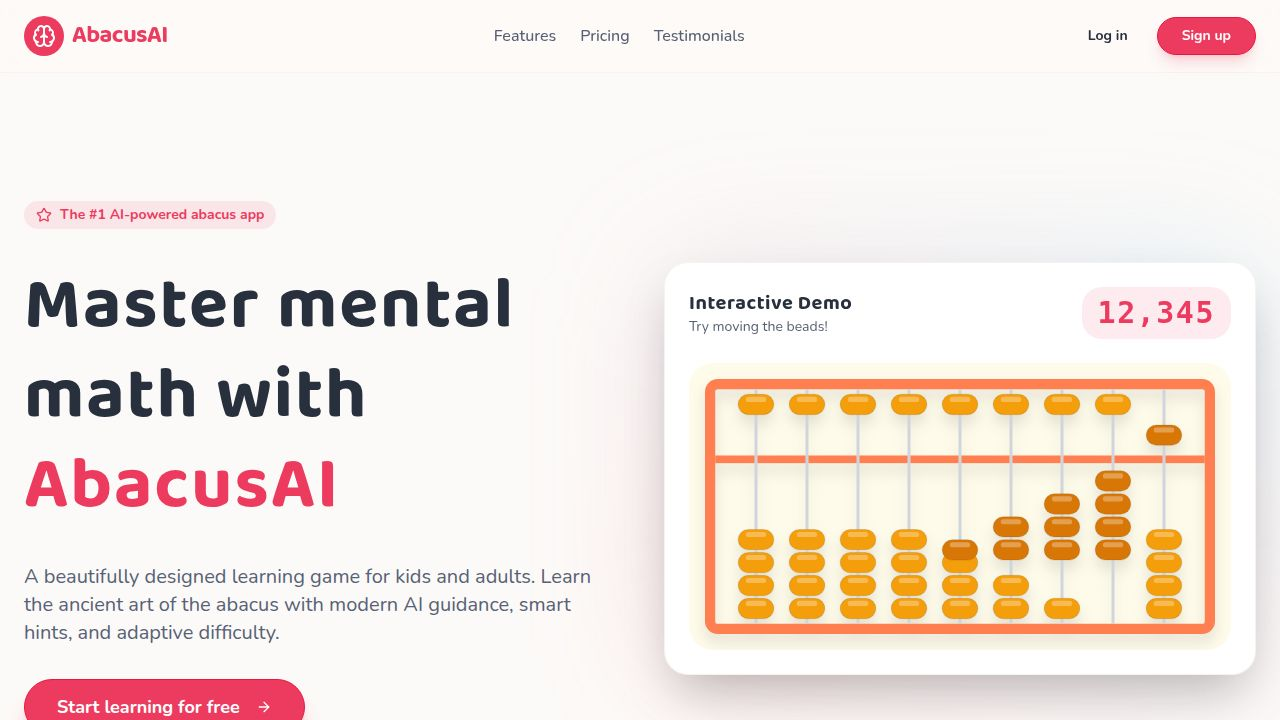
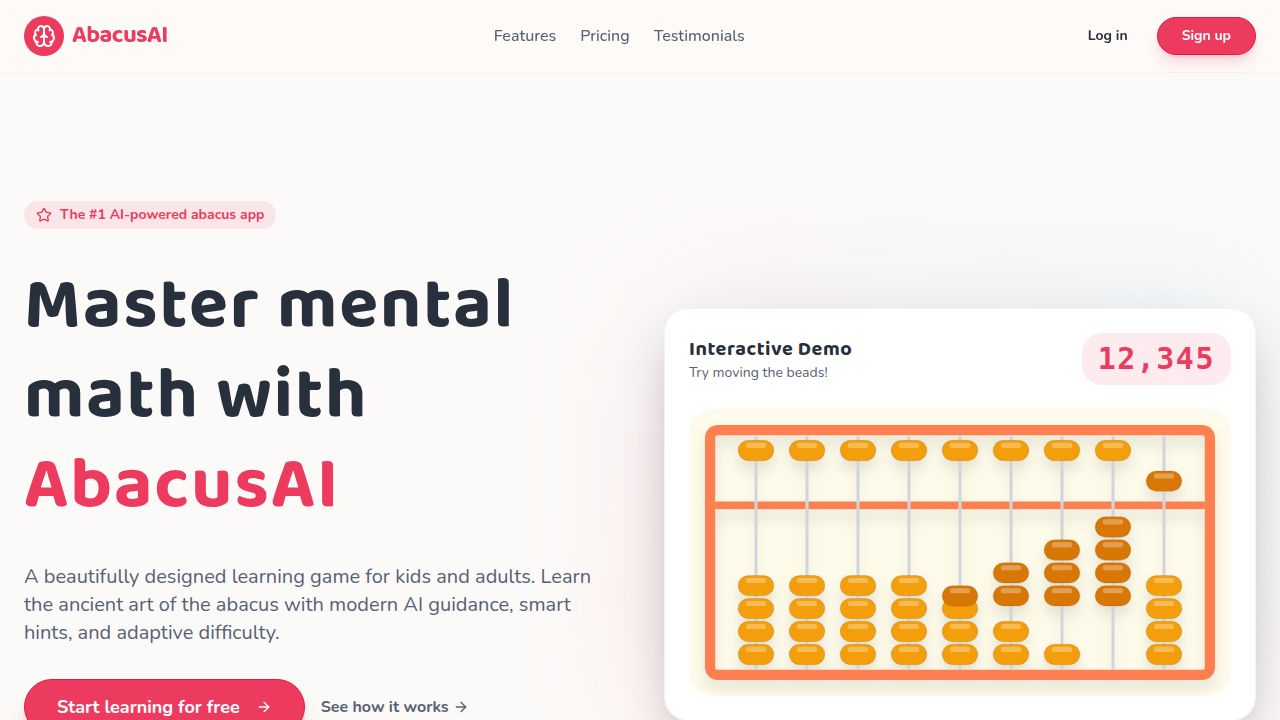
Fix interactive demo to correctly register bead clicks
Adjusted SVG bead animations to use group transforms, ensuring click hitboxes synchronize with visual bead positions in the interactive demo.

Replit-Commit-Author: Agent
Replit-Commit-Session-Id: 1104078b-a329-49b3-b7a9-6bdb38bd3040
Replit-Commit-Checkpoint-Type: full_checkpoint
Replit-Commit-Event-Id: 55f1903f-60ba-45d2-b8f9-304281dbca62
Replit-Commit-Screenshot-Url: https://storage.googleapis.com/screenshot-production-us-central1/dd4d6749-1a95-4fc3-aa3a-3844bd2d0a03/1104078b-a329-49b3-b7a9-6bdb38bd3040/ccBczjX
Replit-Helium-Checkpoint-Created: true

Changed region(s): [[0.5, 0.3972, 1.0, 1.0], [0.25, 0.9778, 0.375, 1.0]]

diff --git a/artifacts/abacusai/src/components/AbacusBoard.tsx b/artifacts/abacusai/src/components/AbacusBoard.tsx
@@ -14,34 +14,34 @@ interface AbacusBoardProps {
 
 const THEMES = {
   kids: {
-    frame: '#ff7f50', // coral
+    frame: '#ff7f50',
     beam: '#ff7f50',
     rod: '#d1d5db',
-    bead: '#f59e0b', // amber
+    bead: '#f59e0b',
     beadActive: '#d97706',
     background: '#fffbeb'
   },
   teen: {
-    frame: '#14b8a6', // teal
+    frame: '#14b8a6',
     beam: '#14b8a6',
     rod: '#9ca3af',
-    bead: '#6366f1', // indigo
+    bead: '#6366f1',
     beadActive: '#4f46e5',
     background: '#f8fafc'
   },
   adult: {
-    frame: '#d4af37', // gold
+    frame: '#d4af37',
     beam: '#d4af37',
     rod: '#475569',
-    bead: '#64748b', // slate
+    bead: '#64748b',
     beadActive: '#334155',
     background: '#f1f5f9'
   },
   dark: {
-    frame: '#374151', // charcoal
+    frame: '#374151',
     beam: '#374151',
     rod: '#4b5563',
-    bead: '#39ff14', // neon green
+    bead: '#39ff14',
     beadActive: '#32cd32',
     background: '#111827'
   }
@@ -49,15 +49,11 @@ const THEMES = {
 
 const ROD_COUNT = 9;
 
-// Calculate bead positions based on value
 function numberToBeadState(val: number): { heaven: boolean; earth: number }[] {
   const strVal = Math.floor(Math.max(0, val)).toString().padStart(ROD_COUNT, '0');
   return strVal.split('').map(digit => {
     const d = parseInt(digit, 10);
-    return {
-      heaven: d >= 5,
-      earth: d % 5
-    };
+    return { heaven: d >= 5, earth: d % 5 };
   });
 }
 
@@ -110,20 +106,13 @@ export function AbacusBoard({
     if (mode !== 'interactive') return;
     setBeads(prev => {
       const newBeads = [...prev];
-      // beadIndex is 0 to 3 (bottom to top earth beads)
-      // if clicking bead 2, earth becomes 3 (0,1,2 are active)
-      // if earth is currently 3, and clicking bead 2, it might deactivate 3
       const currentEarth = newBeads[rodIndex].earth;
       const targetValue = beadIndex + 1;
-      
       if (currentEarth >= targetValue) {
-        // Deactivate this and above
         newBeads[rodIndex] = { ...newBeads[rodIndex], earth: beadIndex };
       } else {
-        // Activate up to this
         newBeads[rodIndex] = { ...newBeads[rodIndex], earth: targetValue };
       }
-      
       const newValue = beadStateToNumber(newBeads);
       if (onValueChange) onValueChange(newValue);
       return newBeads;
@@ -132,38 +121,49 @@ export function AbacusBoard({
 
   if (!isVisible && mode === 'flash') {
     return (
-      <div className={`w-full aspect-[2/1] rounded-2xl flex items-center justify-center ${className}`} style={{ backgroundColor: currentTheme.background, border: `8px solid ${currentTheme.frame}` }}>
+      <div
+        className={`w-full aspect-[2/1] rounded-2xl flex items-center justify-center ${className}`}
+        style={{ backgroundColor: currentTheme.background, border: `8px solid ${currentTheme.frame}` }}
+      >
         <p className="text-xl font-bold opacity-50" style={{ color: currentTheme.frame }}>Recall the number!</p>
       </div>
     );
   }
 
   return (
-    <div className={`w-full max-w-4xl mx-auto overflow-hidden p-2 sm:p-4 rounded-3xl ${className}`} style={{ backgroundColor: currentTheme.background }}>
+    <div
+      className={`w-full max-w-4xl mx-auto overflow-hidden p-2 sm:p-4 rounded-3xl ${className}`}
+      style={{ backgroundColor: currentTheme.background }}
+    >
       <svg viewBox="0 0 1000 500" className="w-full h-auto drop-shadow-xl" data-testid="abacus-board">
         {/* Frame */}
         <rect x="10" y="10" width="980" height="480" rx="15" fill="none" stroke={currentTheme.frame} strokeWidth="20" />
-        
+
         {/* Beam */}
         <rect x="20" y="150" width="960" height="15" fill={currentTheme.beam} />
 
         {/* Rods and Beads */}
         {beads.map((rod, rIndex) => {
           const x = 100 + rIndex * 100;
+
+          // Heaven bead: inactive=top (y=30), active=near beam (y=90)
+          const heavenY = rod.heaven ? 90 : 30;
+
           return (
             <g key={`rod-${rIndex}`}>
               {/* Rod line */}
               <line x1={x} y1="20" x2={x} y2="480" stroke={currentTheme.rod} strokeWidth="6" />
-              
-              {/* Heaven Bead (Value 5) */}
-              <g 
+
+              {/* Heaven Bead — use motion.g so CSS transform moves the hit-area too */}
+              <motion.g
+                animate={{ y: heavenY }}
+                transition={{ type: 'spring', stiffness: 300, damping: 25 }}
                 onClick={() => handleHeavenClick(rIndex)}
-                className={mode === 'interactive' ? 'cursor-pointer' : ''}
+                style={{ cursor: mode === 'interactive' ? 'pointer' : 'default' }}
               >
-                <motion.rect
-                  animate={{ y: rod.heaven ? 90 : 30 }}
-                  transition={{ type: "spring", stiffness: 300, damping: 25 }}
+                <rect
                   x={x - 35}
+                  y={0}
                   width="70"
                   height="40"
                   rx="20"
@@ -171,38 +171,35 @@ export function AbacusBoard({
                   stroke="rgba(0,0,0,0.1)"
                   strokeWidth="2"
                 />
-                {/* Bead highlight for 3D effect */}
-                <motion.rect
-                  animate={{ y: rod.heaven ? 95 : 35 }}
-                  transition={{ type: "spring", stiffness: 300, damping: 25 }}
+                <rect
                   x={x - 20}
+                  y={5}
                   width="40"
                   height="10"
                   rx="5"
                   fill="rgba(255,255,255,0.3)"
                 />
-              </g>
+              </motion.g>
 
-              {/* Earth Beads (Value 1 each) */}
+              {/* Earth Beads */}
               {[3, 2, 1, 0].map((bIndex) => {
                 const isActive = rod.earth > bIndex;
-                // Base Y position for inactive beads (stacked at bottom)
-                // Base Y for active beads (stacked up to beam)
+                // inactive: stacked at bottom; active: pushed up near beam
                 const inactiveY = 430 - (3 - bIndex) * 45;
-                const activeY = 180 + (3 - bIndex) * 45; // reverse order so bIndex 0 (top) is at 180
-
+                const activeY = 180 + (3 - bIndex) * 45;
                 const targetY = isActive ? activeY : inactiveY;
 
                 return (
-                  <g 
+                  <motion.g
                     key={`bead-${rIndex}-${bIndex}`}
+                    animate={{ y: targetY }}
+                    transition={{ type: 'spring', stiffness: 300, damping: 25 }}
                     onClick={() => handleEarthClick(rIndex, bIndex)}
-                    className={mode === 'interactive' ? 'cursor-pointer' : ''}
+                    style={{ cursor: mode === 'interactive' ? 'pointer' : 'default' }}
                   >
-                    <motion.rect
-                      animate={{ y: targetY }}
-                      transition={{ type: "spring", stiffness: 300, damping: 25 }}
+                    <rect
                       x={x - 35}
+                      y={0}
                       width="70"
                       height="40"
                       rx="20"
@@ -210,16 +207,15 @@ export function AbacusBoard({
                       stroke="rgba(0,0,0,0.1)"
                       strokeWidth="2"
                     />
-                    <motion.rect
-                      animate={{ y: targetY + 5 }}
-                      transition={{ type: "spring", stiffness: 300, damping: 25 }}
+                    <rect
                       x={x - 20}
+                      y={5}
                       width="40"
                       height="10"
                       rx="5"
                       fill="rgba(255,255,255,0.3)"
                     />
-                  </g>
+                  </motion.g>
                 );
               })}
             </g>
